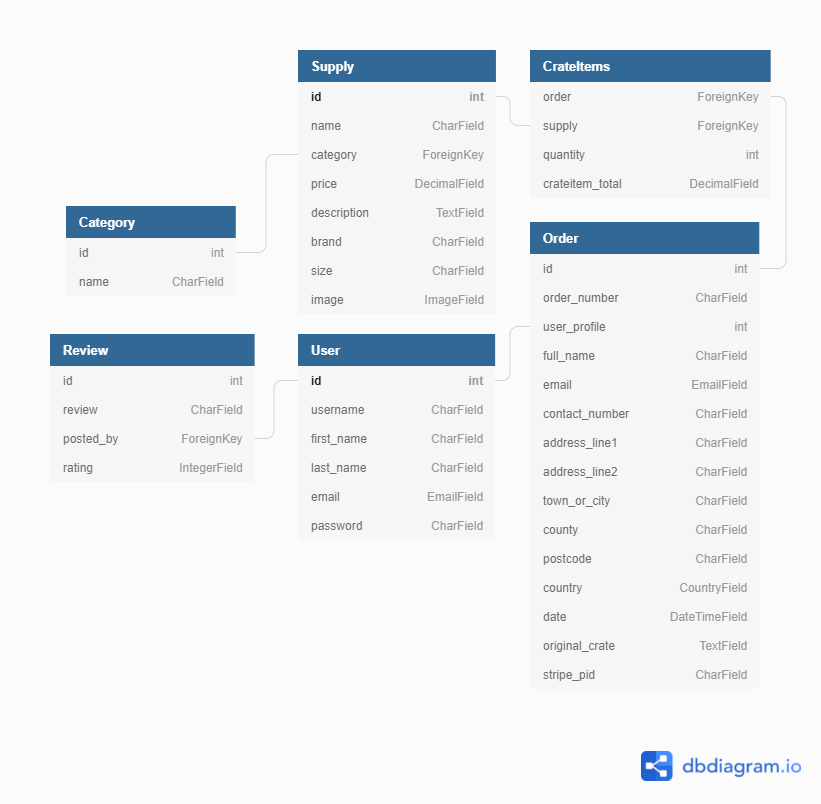
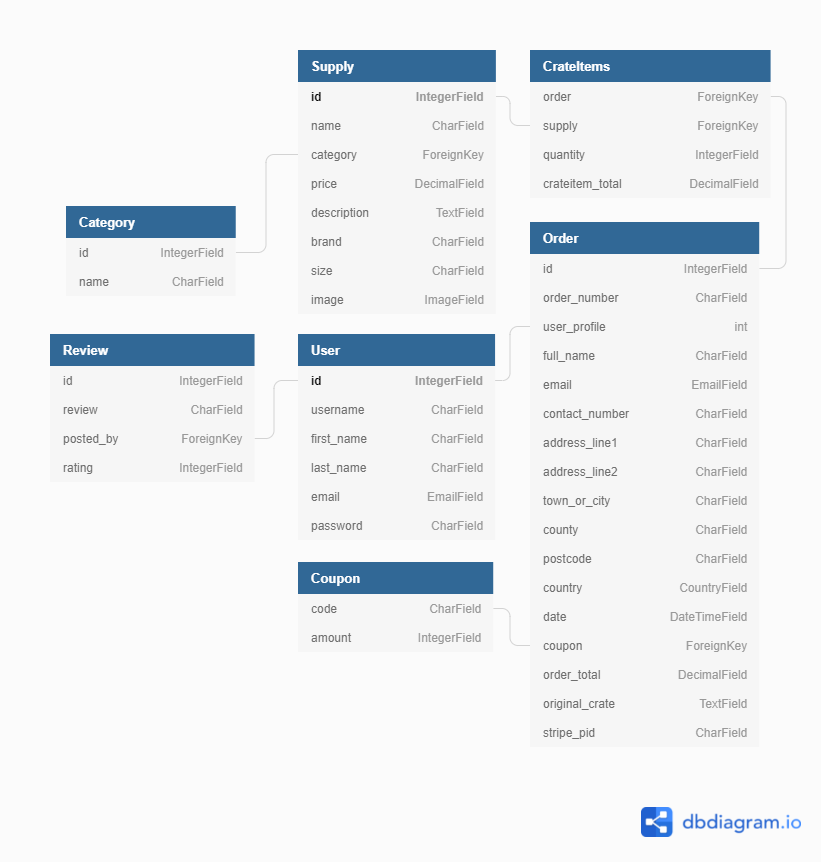
[UPDATE] Tidied up some code in checkout and updated diagram pic/README.md content and adjusted buttons on supplies.html

diff --git a/static/css/base.css b/static/css/base.css
@@ -36,7 +36,7 @@ p { color: #eee6e6; margin-bottom: 0; }
 .container-sort .navbar-toggler { padding: 0.5rem 1rem; -webkit-box-shadow: none; box-shadow: none; font-size: 1rem; }
 .container-categories { border-top: 0; }
 .container-search, .container-toasts { background-color: #4169e1;}
-.container-buttons { position: fixed; bottom: 14vh; right: 10px; z-index: 999999999; }
+.container-buttons { position: fixed; bottom: 14vh; right: 10px; z-index: 999999999; width: 20%; }
 .container-messages { position: fixed; z-index: 99999999999; bottom: 14vh; left: -4px; width: 100%; }
 
 /* Nav */
@@ -59,7 +59,7 @@ footer i, .text-footer { font-size: 1.6rem; }
 /* Toasts */
 .header-toasts { color: #ffd700; background-color: #4169e1; }
 .toast-body { font-size: 1.2rem; }
-.toast-close { font-size: 1.5rem; }
+.toast-close { font-size: 1.5rem; cursor: pointer; }
 .toast-checkout { float: right; }
 .fa-thumbs-down { -webkit-transform: scaleX(-1); -ms-transform: scaleX(-1); transform: scaleX(-1); }
 .crate-wrapper { height: 100px; overflow-x: hidden; overflow-y: auto; }

diff --git a/supplies/templates/supplies/supplies.html b/supplies/templates/supplies/supplies.html
@@ -148,7 +148,7 @@
             {% endfor %}
         </div>
     </div>
-    <div class="container-buttons row w-25">
+    <div class="container-buttons row">
         <div id="trigger-btt" class="hidden col-12 text-end">
             <a class="btn-btt h-100 mt-2">
                 <img src={% static "images/back-to-top.png" %} class="img-btn-supplies" alt="Back to Top">

diff --git a/checkout/models.py b/checkout/models.py
@@ -1,19 +1,20 @@
+# Imports
 import uuid
-
 from django.db import models
 from django.db.models import Sum
 from decimal import Decimal
-
 from django_countries.fields import CountryField
-
 from supplies.models import Supply
 from profiles.models import UserProfile
 from crate.models import Coupon
 
 
+# Order model from checkout form
 class Order(models.Model):
     order_number = models.CharField(max_length=32, null=False, editable=False)
-    user_profile = models.ForeignKey(UserProfile, on_delete=models.SET_NULL, null=True, blank=True, related_name='orders')
+    user_profile = models.ForeignKey(
+        UserProfile, on_delete=models.SET_NULL,
+        null=True, blank=True, related_name='orders')
     full_name = models.CharField(max_length=80, null=False, blank=False)
     email = models.EmailField(max_length=254, null=False, blank=False)
     contact_number = models.CharField(max_length=20, null=True, blank=True)
@@ -24,10 +25,13 @@ class Order(models.Model):
     postcode = models.CharField(max_length=20, null=True, blank=True)
     country = CountryField(blank_label='Country *', null=False, blank=False)
     date = models.DateTimeField(auto_now_add=True)
-    coupon = models.ForeignKey(Coupon, on_delete=models.SET_NULL, null=True, blank=True)
-    order_total = models.DecimalField(max_digits=10, decimal_places=2, null=False, default=0)
+    coupon = models.ForeignKey(
+        Coupon, on_delete=models.SET_NULL, null=True, blank=True)
+    order_total = models.DecimalField(
+        max_digits=10, decimal_places=2, null=False, default=0)
     original_crate = models.TextField(null=False, blank=False, default='')
-    stripe_pid = models.CharField(max_length=254, null=False, blank=False, default='')
+    stripe_pid = models.CharField(
+        max_length=254, null=False, blank=False, default='')
 
     def _generate_order_number(self):
         # Use UUID to generate order number
@@ -35,16 +39,21 @@ class Order(models.Model):
 
     def update_total(self):
         # Update total each time a crate item is added
-        self.order_total = self.crateitems.aggregate(Sum('crateitem_total'))['crateitem_total__sum'] or 0
-
+        self.order_total = (
+            self.crateitems.aggregate(
+                Sum("crateitem_total"))["crateitem_total__sum"] or 0
+        )
+        # Checking whether a coupon was applied to the order
         if self.coupon is not None:
-            savings = self.crateitems.aggregate(Sum('crateitem_total'))['crateitem_total__sum']*(self.coupon.amount/Decimal('100'))
+            savings = self.crateitems.aggregate(Sum("crateitem_total"))[
+                "crateitem_total__sum"
+            ] * (self.coupon.amount / Decimal("100"))
             self.order_total = self.order_total - savings
 
         self.save()
 
     def save(self, *args, **kwargs):
-        # Override original save method to set order number
+        # Set order number by overriding original save method
         if not self.order_number:
             self.order_number = self._generate_order_number()
         super().save(*args, **kwargs)
@@ -53,23 +62,30 @@ class Order(models.Model):
         return self.order_number
 
 
+# Crate items model
 class CrateItems(models.Model):
 
     class Meta:
         verbose_name_plural = "Crate Items"
 
-    order = models.ForeignKey(Order, null=False, blank=False, on_delete=models.CASCADE, related_name="crateitems")
-    supply = models.ForeignKey(Supply, null=False, blank=False, on_delete=models.CASCADE)
+    order = models.ForeignKey(
+        Order, null=False, blank=False,
+        on_delete=models.CASCADE, related_name="crateitems")
+    supply = models.ForeignKey(
+        Supply, null=False, blank=False, on_delete=models.CASCADE)
     quantity = models.IntegerField(null=False, blank=False, default=0)
-    crateitem_total = models.DecimalField(max_digits=6, decimal_places=2, null=False, blank=False, editable=False)
+    crateitem_total = models.DecimalField(
+        max_digits=6, decimal_places=2,
+        null=False, blank=False, editable=False)
 
     def save(self, *args, **kwargs):
         """
-        Override the original save method to set the lineitem total
-        and update the order total.
+        Set the crate total and update the order total
+        by overriding the original save method.
         """
         self.crateitem_total = self.supply.price * self.quantity
         super().save(*args, **kwargs)
 
     def __str__(self):
-        return f'{self.supply.name} on order {self.order.order_number}'
+        return f'{self.supply.name} on \
+            order {self.order.order_number}'

diff --git a/checkout/admin.py b/checkout/admin.py
@@ -10,11 +10,14 @@ class CrateItemsAdminInline(admin.TabularInline):
 
 class OrderAdmin(admin.ModelAdmin):
     inlines = (CrateItemsAdminInline,)
-    readonly_fields = ('date', 'order_number', 'coupon', 'order_total', 'original_crate', 'stripe_pid',)
+    readonly_fields = ('date', 'order_number', 'coupon',
+                       'order_total', 'original_crate', 'stripe_pid',)
 
-    fields = ('date', 'order_number', 'coupon', 'user_profile', 'full_name', 'email',
+    fields = ('date', 'order_number', 'coupon',
+              'user_profile', 'full_name', 'email',
               'contact_number', 'address_line_1', 'address_line_2',
-              'town_or_city', 'county', 'postcode', 'country', 'order_total', 'original_crate', 'stripe_pid',)
+              'town_or_city', 'county', 'postcode', 'country',
+              'order_total', 'original_crate', 'stripe_pid',)
 
     list_display = ('order_number', 'date', 'order_total',
                     'full_name', 'email',)

diff --git a/README.md b/README.md
@@ -220,6 +220,7 @@ Order Model
 | county | CharField | max_length=50, null=True, blank=True |
 | postcode | CharField | max_length=20, null=True, blank=True |
 | country | CountryField | blank_label="Country *", null=False, blank=False |
+| coupon | ForeignKey | Coupon, on_delete=models.SET_NULL, null=True, blank=True |
 | date | DateTimeField | auto_now_add=True |
 | order_total | DecimalField | max_digits=10, decimal_places=2, null=False, default=0 |
 | original_crate | TextField | null=False, blank=False, default='' |
